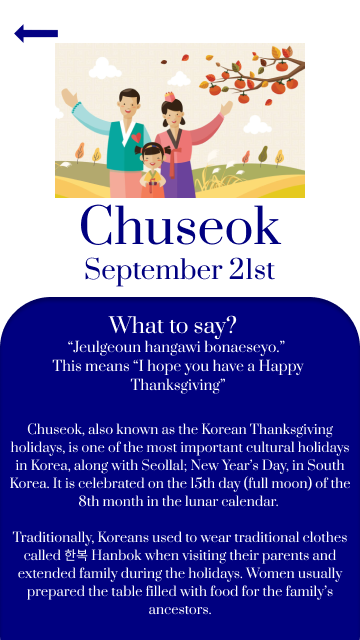
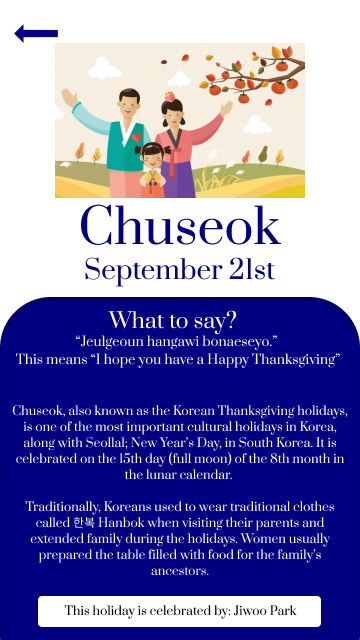
final commit

Changed region(s): [[0.0306, 0.4688, 0.9778, 1.0], [0.8861, 0.5312, 0.9472, 0.5938]]

diff --git a/lib/CalendarScreen.dart b/lib/CalendarScreen.dart
@@ -1,5 +1,6 @@
 import 'package:flutter/material.dart';
 import 'package:syncfusion_flutter_calendar/calendar.dart';
+import 'const.dart';
 
 class CalendarPage extends StatefulWidget {
   @override
@@ -11,53 +12,63 @@ class _State extends State<CalendarPage> {
 
   @override
   Widget build(BuildContext context) {
-    return Scaffold(
-        appBar: AppBar(),
-        body: SfCalendar(
-          view: myView,
-        ));
-  }
-}
-
-Widget build(BuildContext context) {
-  return MaterialApp(
-    home: Scaffold(
-      body: Container(
-        child: SfCalendar(
-          view: CalendarView.week,
-          dataSource: _getCalendarDataSource(),
+    return MaterialApp(
+      home: Scaffold(
+        appBar: AppBar(
+          backgroundColor: HexColor("000080"),
+        ),
+        body: Container(
+          child: SfCalendar(
+            view: CalendarView.week,
+            dataSource: _getCalendarDataSource(),
+          ),
         ),
       ),
-    ),
-  );
-}
+    );
+  }
 
-_AppointmentDataSource _getCalendarDataSource() {
-  List<Appointment> appointments = <Appointment>[];
-  appointments.add(Appointment(
-    startTime: DateTime.now(),
-    endTime: DateTime.now().add(Duration(minutes: 10)),
-    subject: 'Meeting',
-    color: Colors.blue,
-    startTimeZone: '',
-    endTimeZone: '',
-  ));
+  _AppointmentDataSource _getCalendarDataSource() {
+    List<Appointment> appointments = <Appointment>[];
 
-  return _AppointmentDataSource(appointments);
+    // chuseok
+    DateTime startTime = DateTime(2020, 9, 21);
+    appointments.add(Appointment(
+      startTime: startTime,
+      endTime: startTime.add(Duration(hours: 23)),
+      subject: 'Chuseok',
+      color: Colors.blue,
+      startTimeZone: '',
+      endTimeZone: '',
+    ));
+
+    // thanksgiving
+    startTime = DateTime(2020, 11, 26);
+    appointments.add(Appointment(
+      startTime: startTime,
+      endTime: startTime.add(Duration(hours: 23)),
+      subject: 'Thanksgiving',
+      color: Colors.orange,
+      startTimeZone: '',
+      endTimeZone: '',
+    ));
+
+    // black friday
+    startTime = DateTime(2020, 11, 27);
+    appointments.add(Appointment(
+      startTime: startTime,
+      endTime: startTime.add(Duration(hours: 23)),
+      subject: 'Black Friday',
+      color: Colors.blue,
+      startTimeZone: '',
+      endTimeZone: '',
+    ));
+
+    return _AppointmentDataSource(appointments);
+  }
 }
 
 class _AppointmentDataSource extends CalendarDataSource {
   _AppointmentDataSource(List<Appointment> source) {
     appointments = source;
   }
-}
-
-class Meeting {
-  Meeting({this.eventName, this.from, this.to, this.background, this.isAllDay});
-
-  String eventName;
-  DateTime from;
-  DateTime to;
-  Color background;
-  bool isAllDay;
 }

diff --git a/lib/WelcomeScreen.dart b/lib/WelcomeScreen.dart
@@ -3,6 +3,7 @@ import 'CalendarScreen.dart';
 import 'EventSceen.dart';
 import 'TeamProfilesScreen.dart';
 import 'TeamMapScreen.dart';
+import 'ProfileScreen.dart';
 import 'const.dart';
 
 class WelcomePage extends StatefulWidget {
@@ -63,10 +64,8 @@ class _State extends State<WelcomePage> {
                   top: 425.0,
                   child: TextButton(
                     onPressed: () {
-                      Navigator.push(
-                          context,
-                          MaterialPageRoute(
-                              builder: (context) => EventPage()));
+                      Navigator.push(context,
+                          MaterialPageRoute(builder: (context) => EventPage()));
                     },
                     child: Text('', style: TextStyle(fontSize: 15.0)),
                   )),
@@ -82,6 +81,20 @@ class _State extends State<WelcomePage> {
                           context,
                           MaterialPageRoute(
                               builder: (context) => TeamProfilesPage()));
+                    },
+                    child: Text('', style: TextStyle(fontSize: 15.0)),
+                  )),
+              // profile
+              Positioned(
+                  left: 235.0,
+                  right: 15.0,
+                  top: 0.0,
+                  child: TextButton(
+                    onPressed: () {
+                      Navigator.push(
+                          context,
+                          MaterialPageRoute(
+                              builder: (context) => ProfilePage()));
                     },
                     child: Text('', style: TextStyle(fontSize: 15.0)),
                   )),

diff --git a/lib/Chuseok.dart b/lib/Chuseok.dart
@@ -1,4 +1,5 @@
 import 'package:flutter/material.dart';
+import 'JiwooScreen.dart';
 import 'const.dart';
 
 class ChuseokPage extends StatefulWidget {
@@ -20,7 +21,19 @@ class _State extends State<ChuseokPage> {
                   decoration: BoxDecoration(
                       image: DecorationImage(
                           fit: BoxFit.fill,
-                          image: AssetImage('assets/img/Chuseok.png'))))
+                          image: AssetImage('assets/img/Chuseok.png')))),
+              // jiwoo
+              Positioned(
+                  bottom: 0.0,
+                  left: 0.0,
+                  right: 0.0,
+                  child: TextButton(
+                    onPressed: () {
+                      Navigator.push(context,
+                          MaterialPageRoute(builder: (context) => JiwooPage()));
+                    },
+                    child: Text('', style: TextStyle(fontSize: 15.0)),
+                  )),
             ])));
   }
 }

diff --git a/lib/Hijri.dart b/lib/Hijri.dart
@@ -1,5 +1,6 @@
 import 'package:flutter/material.dart';
 import 'const.dart';
+import 'AyaScreen.dart';
 
 class HijriPage extends StatefulWidget {
   @override
@@ -20,7 +21,19 @@ class _State extends State<HijriPage> {
                   decoration: BoxDecoration(
                       image: DecorationImage(
                           fit: BoxFit.fill,
-                          image: AssetImage('assets/img/Hijri.png'))))
+                          image: AssetImage('assets/img/Hijri.png')))),
+              // aya
+              Positioned(
+                  bottom: 0.0,
+                  left: 0.0,
+                  right: 0.0,
+                  child: TextButton(
+                    onPressed: () {
+                      Navigator.push(context,
+                          MaterialPageRoute(builder: (context) => AyaPage()));
+                    },
+                    child: Text('', style: TextStyle(fontSize: 15.0)),
+                  )),
             ])));
   }
 }

diff --git a/lib/ProfileScreen.dart b/lib/ProfileScreen.dart
@@ -1,0 +1,26 @@
+import 'package:flutter/material.dart';
+import 'const.dart';
+
+class ProfilePage extends StatefulWidget {
+  @override
+  State<StatefulWidget> createState() => new _State();
+}
+
+class _State extends State<ProfilePage> {
+  @override
+  Widget build(BuildContext context) {
+    return MaterialApp(
+        home: Scaffold(
+            appBar: AppBar(
+              backgroundColor: HexColor("000080"),
+            ),
+            body: Stack(children: [
+              Container(
+                  width: MediaQuery.of(context).size.width,
+                  decoration: BoxDecoration(
+                      image: DecorationImage(
+                          fit: BoxFit.fill,
+                          image: AssetImage('assets/img/ProfilePic.PNG')))),
+            ])));
+  }
+}

diff --git a/README.md b/README.md
@@ -1,16 +1,22 @@
 # hackgsu_2020
 
-A new Flutter project.
+## 💡 Inspiration 💡 
+A comfortable environment is essential for the success of any team. All members should not only feel respected, but they should also feel welcomed and appreciated. This app allows team members to learn more about each other's backgrounds and culture so that connections can be better formed and positively affect productivity levels.
 
-## Getting Started
+## 🙆♂ What it does 🙆♀
+This app allows a user to join a team and share their background, culture, and other interests. Then, anyone on the team can see on a calendar when a teammate is celebrating a holiday and can learn more about their teammates.
 
-This project is a starting point for a Flutter application.
+## 😤 How we built it 😤
+We built this app by designing screens in Figma, then implementing the screens using Flutter. We compiled the Flutter app to android and ran on our android phones locally.
 
-A few resources to get you started if this is your first Flutter project:
+## 🤔 Challenges we ran into 🤔
+We ran into challenges with showing the events on the calendar and with the positioning of the buttons. 
 
-- [Lab: Write your first Flutter app](https://flutter.dev/docs/get-started/codelab)
-- [Cookbook: Useful Flutter samples](https://flutter.dev/docs/cookbook)
+## 😁 Accomplishments that I'm proud of 😁
+This is our first project with Flutter, so we got to accomplish a lot with a new framework.
 
-For help getting started with Flutter, view our
-[online documentation](https://flutter.dev/docs), which offers tutorials,
-samples, guidance on mobile development, and a full API reference.
+## 🤓 What I learned 🤓
+In this project, we learned a lot about each other's culture and background!
+
+## 🤩 What's next for Momentum 🤩 
+We would like to add database functionality to automatically load event data.
